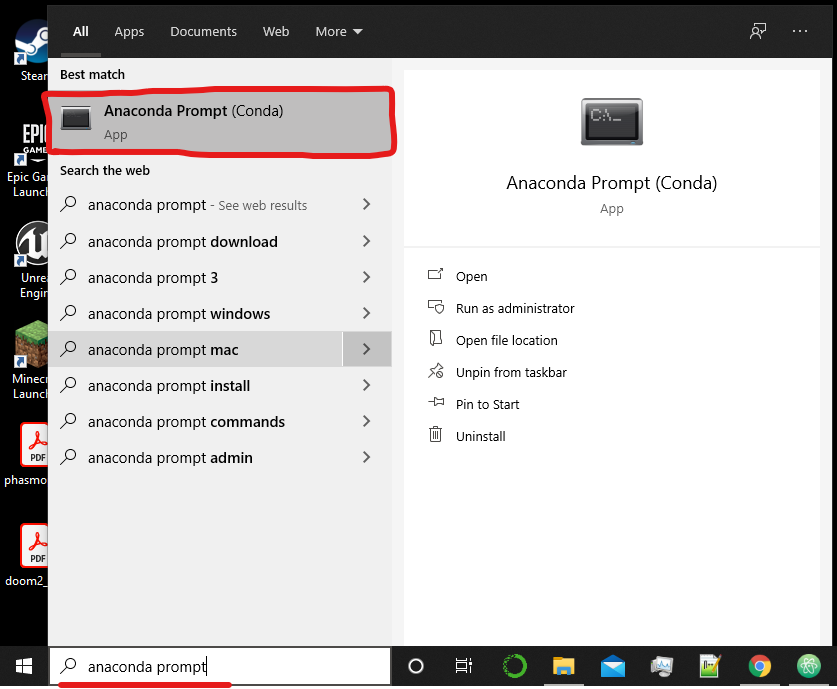
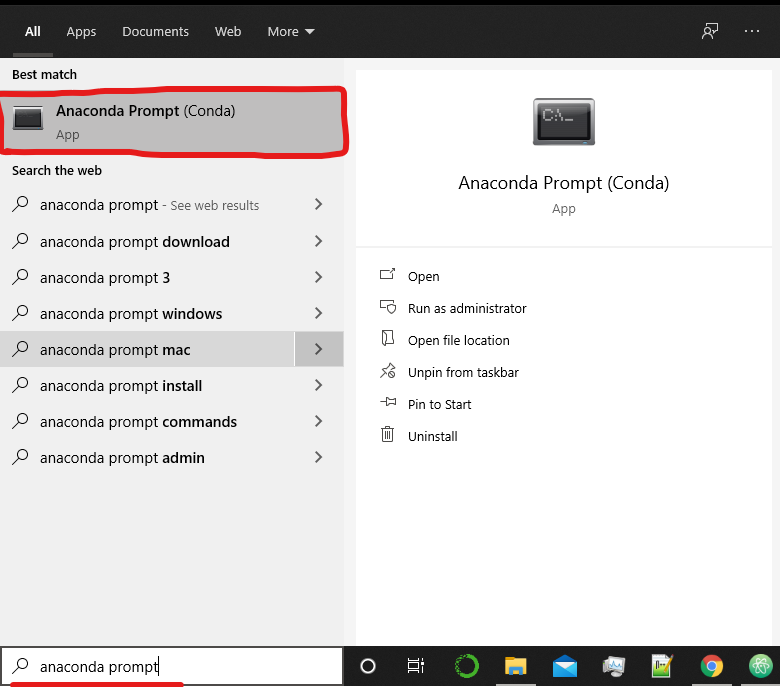
- Finished updating scraper installation instructions

diff --git a/Scraper/README.md b/Scraper/README.md
@@ -15,22 +15,53 @@ Click download and choose the version in accordance with your OS.
 
 Install anaconda, follow the installation instructions.
 
-###### 2. Open Anacond Prompt
+###### 2. Download the files
+
+Download this repo.
+It will be in a zip file, extract it.
+
+###### 3. Change directory to the downloaded files
+
+Navigate to the files that you just extracted and copy the directory address (underlined in red)
+
+![Example on windows](../repo_images/extract_file_location.png)
+
+
+###### 4. Open Anaconda Prompt
 
 Once anaconda is installed you will need to open anaconda prompt.
 
 Search for 'anaconda prompt' and run it.
 
-![Example on windows](repo_images/anaconda_prompt.png)
+![Example on windows](../repo_images/anaconda_prompt.png)
+
+
+###### 5. Navigate to the extracted files in anaconda prompt
+
+Enter the following command to navigate to the files:
+``` cd {the directory address you copied} ```
+
+Make sure that you successfully navigated to that directory
+
+###### 6. Run the following commands
+
+When running the commands type 'y' to accept when prompted.
+
+``` conda deactivate ```
+
+``` conda create --name ScrapperTest --file requirements.txt --channel default --channel conda-forge --channel anaconda ```
+
+``` conda activate ScrapperTest ```
+
+If this all works then the installation was successful
+
 
 
 ### How To Run This
 
-Navigate to the base directory (Its name is 'Scraper' and it has this file in it)
+In the anaconda prompt console (or in IDE ect..) type: 'python refreshbutton.py' .
 
-In the anaconda prompt console (or in IDE ect..) type: 'python scraper_run.py' .
-
-This will run everything that is setup so far-ish.
+This will run the scraper.
 
 
 ### How Scrapy Works - ish
